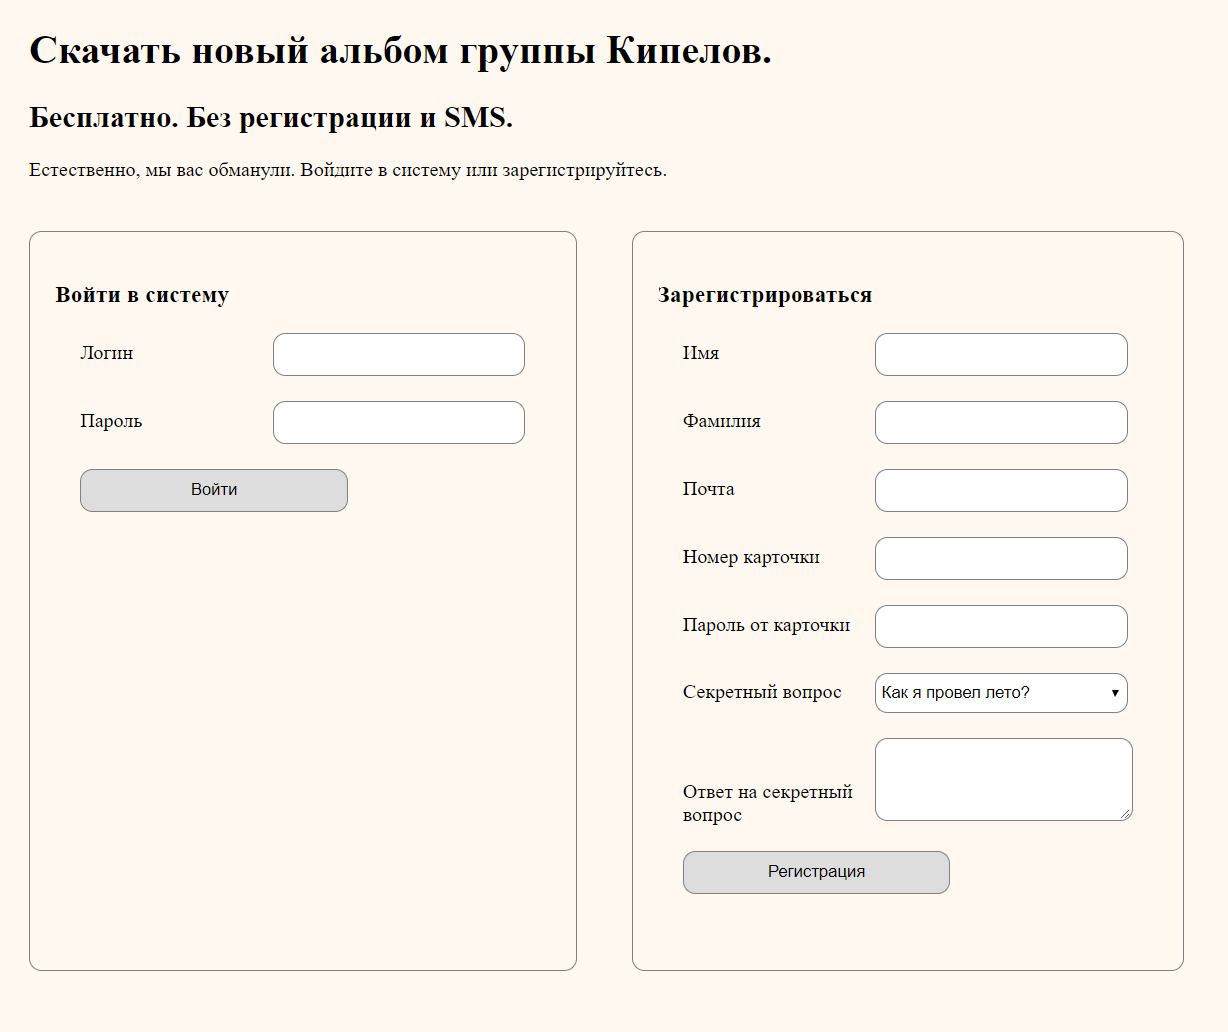
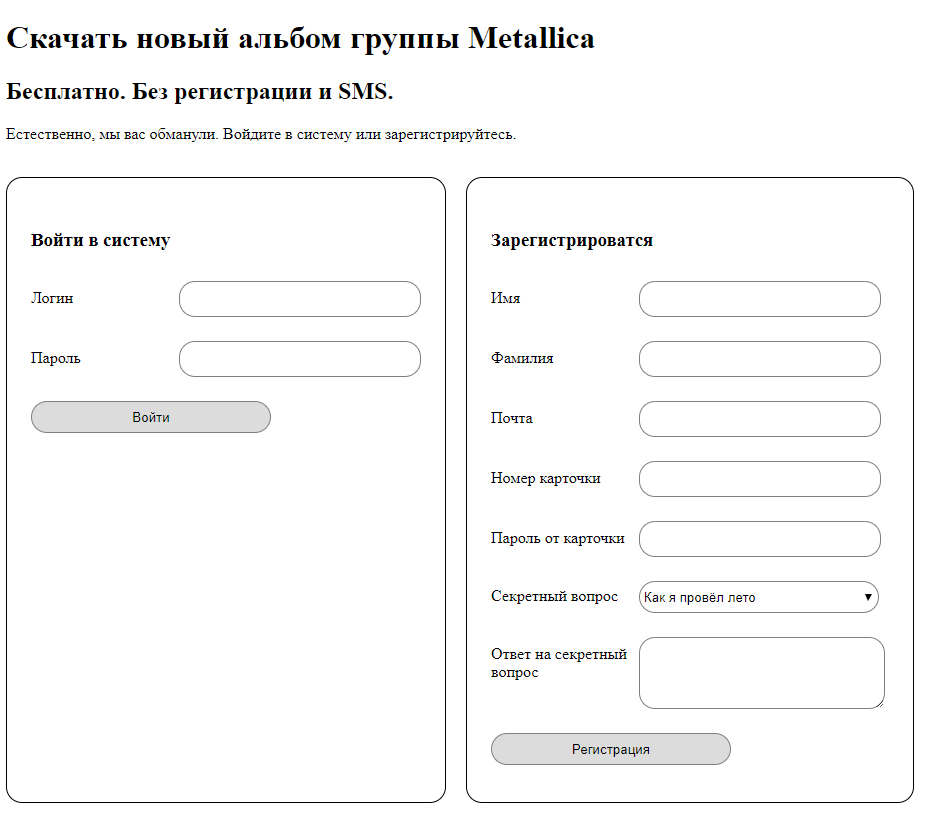
lesson3

diff --git a/lesson3/homework_answers/task1.html b/lesson3/homework_answers/task1.html
@@ -1,0 +1,78 @@
+<!DOCTYPE html>
+<html>
+<head>
+	<meta charset="UTF-8">
+	<title>Скачать новый альбом группы Metallica</title>
+	<style>
+		.box {
+			height: 35rem;
+			border: solid 1px black;
+			border-radius: 1rem;
+			display: inline-block;
+			vertical-align: top;
+			padding: 2rem 1.5rem;
+		}
+
+		label {
+			display: inline-block;
+			width: 9rem;
+		}
+
+		input, textarea, select {
+			width: 15rem;
+			height: 2rem;
+			border: solid 1px gray;
+			border-radius: 1rem;
+			margin: 0.75rem 0;
+			vertical-align: middle;
+		}
+
+		textarea {
+			height: 4rem;
+		}
+
+	</style>
+</head>
+<body>
+	<h1>Скачать новый альбом группы Metallica</h1>
+	<h2>Бесплатно. Без регистрации и SMS.</h2>
+	<p>Естественно, мы вас обманули. Войдите в систему или зарегистрируйтесь.</p>
+	<br>
+	<div class="box">
+		<form action="/mockURL1" method="post">
+			<h3>Войти в систему</h3>
+			<label for="login">Логин</label>
+			<input type="text" name="login" id="login"><br>
+			<label for="pass">Пароль</label>
+			<input type="password" name="pass" id="pass"><br>
+			<input type="submit" value="Войти">
+		</form>
+	</div>
+	<div class="box" style="margin-left: 1rem;">
+		<form action="/mockURL2" method="post">
+			<h3>Зарегистрироватся</h3>
+			<label for="name">Имя</label>
+			<input type="text" name="name" id="name"><br>
+			<label for="surname">Фамилия</label>
+			<input type="text" name="surname" id="surname"><br>
+			<label for="email">Почта</label>
+			<input type="email" name="email" id="email"><br>
+			<label for="cc-number">Номер карточки</label>
+			<input type="text" name="cc-number" id="cc-number"><br>
+			<label for="cc-pass">Пароль от карточки</label>
+			<input type="password" name="cc-pass" id="cc-pass"><br>
+			<label for="question">Секретный вопрос</label>
+			<select name="question" id="question">
+				<option value="question1" selected>Как я провёл лето</option>
+				<option value="question2">Пароль от WIFI</option>
+				<option value="question3">Srsly bro?</option>
+			</select>
+			<br>
+			<label for="answer">Ответ на секретный вопрос</label>
+			<textarea name="answer" id="answer"></textarea>
+			<br>
+			<input type="submit" value="Регистрация">
+		</form>
+	</div>
+</body>
+</html>
